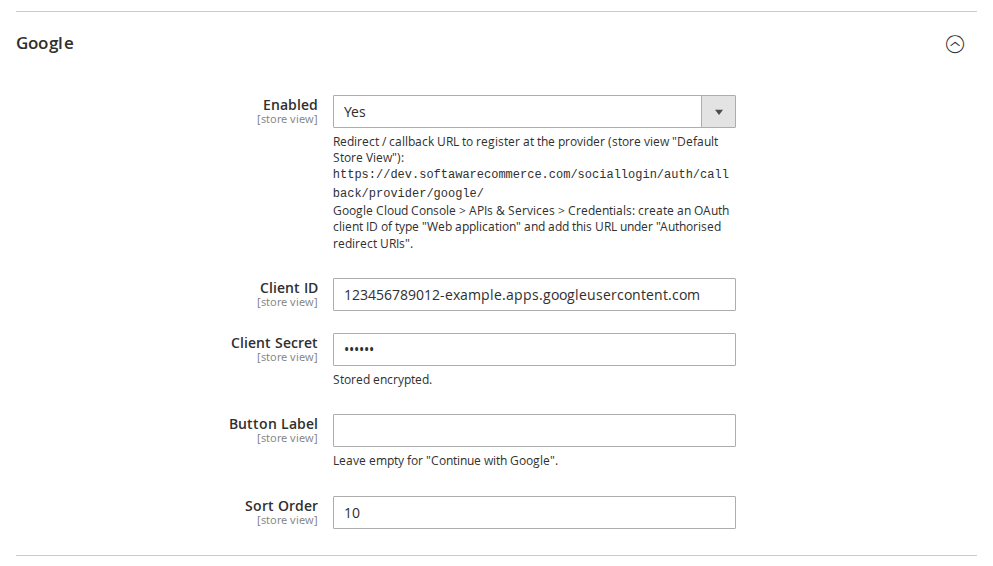
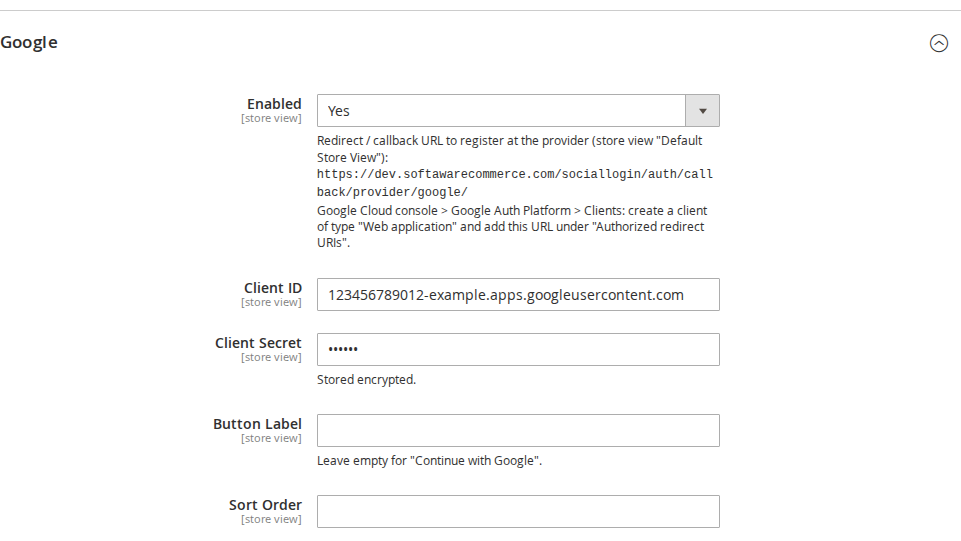
In-app browser note, Graph API v26.0, current Google console names, softawarecommerce.com links, docs screenshots (1.4.0)

diff --git a/view/frontend/web/js/social-login.js b/view/frontend/web/js/social-login.js
@@ -6,6 +6,8 @@
  * - Popup mode: opens the provider in a popup; the popup tells this window where to go next
  *   (via window.opener, or a BroadcastChannel when the provider cut the opener link).
  * - Widgets marked data-sw-social-guest-only hide themselves for signed-in customers.
+ * - In the built-in browsers of Instagram, Facebook and other apps (where Google refuses OAuth sign-in), shows the
+ *   "open this page in your browser" note rendered with the buttons, with a "Copy link" button.
  */
 (function (factory) {
     'use strict';
@@ -18,7 +20,42 @@
 }(function (customerData) {
     'use strict';
 
-    var CHANNEL = 'sw_social_login';
+    var CHANNEL = 'sw_social_login',
+        // In-app browsers (WebViews): Facebook, Messenger, Instagram, LinkedIn, Snapchat, Pinterest, TikTok,
+        // WeChat, LINE, and Android WebViews in general ("; wv)").
+        IN_APP = /FBAN|FBAV|FB_IAB|FBIOS|Instagram|LinkedInApp|Snapchat|Pinterest|TikTok|musical_ly|BytedanceWebview|MicroMessenger|\bLine\/|; wv\)/;
+
+    function isInAppBrowser() {
+        return IN_APP.test(window.navigator.userAgent || '');
+    }
+
+    function showInAppHints() {
+        // Luma: the class shows the notes through CSS (also those Knockout renders later). Hyvä: unhide them.
+        document.documentElement.classList.add('sw-social-inapp');
+        Array.prototype.forEach.call(document.querySelectorAll('[data-sw-social-inapp][hidden]'), function (node) {
+            node.hidden = false;
+        });
+    }
+
+    function copyLink(button) {
+        var url = window.location.href,
+            done = function () {
+                button.textContent = button.getAttribute('data-copied') || button.textContent;
+            },
+            fallback = function () {
+                // No clipboard access: show the address so it can be selected and copied by hand.
+                var target = button.parentNode && button.parentNode.querySelector('[data-sw-social-url]');
+                if (target) {
+                    target.textContent = url;
+                    target.hidden = false;
+                }
+            };
+        if (window.navigator.clipboard && window.navigator.clipboard.writeText) {
+            window.navigator.clipboard.writeText(url).then(done, fallback);
+        } else {
+            fallback();
+        }
+    }
 
     function withParams(href, popup) {
         var url = href + (href.indexOf('?') === -1 ? '?' : '&') + 'return=' + encodeURIComponent(window.location.href);
@@ -60,6 +97,12 @@
     }
 
     function onClick(event) {
+        var copy = event.target && event.target.closest ? event.target.closest('[data-sw-social-copy]') : null;
+        if (copy) {
+            event.preventDefault();
+            copyLink(copy);
+            return;
+        }
         var link = event.target && event.target.closest ? event.target.closest('a[data-sw-social]') : null;
         if (!link || event.defaultPrevented || event.button > 0 || event.metaKey || event.ctrlKey || event.shiftKey) {
             return;
@@ -100,6 +143,9 @@
         }
         window.swSocialLoginReady = true;
         document.addEventListener('click', onClick);
+        if (isInAppBrowser()) {
+            showInAppHints();
+        }
         watchCustomer();
     };
 }));

diff --git a/view/frontend/web/js/view/social-buttons.js b/view/frontend/web/js/view/social-buttons.js
@@ -3,8 +3,9 @@
  */
 define([
     'uiComponent',
-    'Softaware_SocialLogin/js/social-login'
-], function (Component, socialLogin) {
+    'Softaware_SocialLogin/js/social-login',
+    'mage/translate'
+], function (Component, socialLogin, $t) {
     'use strict';
 
     return Component.extend({
@@ -16,11 +17,17 @@ define([
             buttonStyle: 'icon_text',
             buttonTheme: 'light',
             popup: false,
-            showDivider: false
+            showDivider: false,
+            inAppText: '',
+            copyText: '',
+            copiedText: ''
         },
 
         initialize: function () {
             this._super();
+            this.inAppText = $t('You are using the browser built into another app. Google does not allow sign-in there, and other providers may not work either. Please open this page in your browser, for example with "Open in browser" in the app\'s menu.');
+            this.copyText = $t('Copy link');
+            this.copiedText = $t('Link copied. Paste it into your browser.');
             socialLogin();
             return this;
         },

diff --git a/view/frontend/web/css/source/_module.less b/view/frontend/web/css/source/_module.less
@@ -64,6 +64,35 @@
             }
         }
 
+        &__inapp {
+            background: #fdf6e3;
+            border: 1px solid #e8c56d;
+            border-radius: 4px;
+            display: none;
+            font-size: 1.3rem;
+            margin: 0 0 14px;
+            padding: 10px 12px;
+
+            .sw-social-inapp & {
+                display: block;
+            }
+        }
+
+        &__inapp-text {
+            margin: 0 0 8px;
+        }
+
+        &__inapp-url {
+            display: block;
+            margin-top: 8px;
+            user-select: all;
+            word-break: break-all;
+
+            &[hidden] {
+                display: none;
+            }
+        }
+
         &__divider {
             align-items: center;
             color: #666;

diff --git a/view/frontend/web/template/social-buttons.html b/view/frontend/web/template/social-buttons.html
@@ -8,6 +8,12 @@
     <!-- ko if: heading -->
     <p class="sw-social__heading" data-bind="text: heading"></p>
     <!-- /ko -->
+    <div class="sw-social__inapp" role="note">
+        <p class="sw-social__inapp-text" data-bind="text: inAppText"></p>
+        <button type="button" class="action secondary sw-social__inapp-copy" data-sw-social-copy
+                data-bind="attr: {'data-copied': copiedText}, text: copyText"></button>
+        <span class="sw-social__inapp-url" data-sw-social-url hidden></span>
+    </div>
     <div class="sw-social__buttons" data-bind="foreach: buttons">
         <a class="sw-social__btn" rel="nofollow"
            data-bind="attr: {

diff --git a/Model/Provider/Facebook.php b/Model/Provider/Facebook.php
@@ -19,7 +19,7 @@ use Softaware\SocialLogin\Model\Profile;
  */
 class Facebook extends AbstractProvider
 {
-    private const DEFAULT_VERSION = 'v23.0';
+    private const DEFAULT_VERSION = 'v26.0';
 
     public function getCode(): string
     {

diff --git a/docs/user-guide.md b/docs/user-guide.md
@@ -6,6 +6,7 @@ installation, configuration, provider setup and day-to-day use.
 - Demo (Luma): https://demo.softawarecommerce.com/customer/account/login/
 - Demo (Hyvä): https://demo.softawarecommerce.com/hyva/customer/account/login/
 - Admin demo: https://demo.softawarecommerce.com/try-admin/social-login
+- Product page (free): https://softawarecommerce.com/shop/magento-2-extensions/social-login-for-magento-2/
 - Changelog: [CHANGELOG.md](../CHANGELOG.md) · Questions: [FAQ](faq.md)
 
 ![Sign-in page with social login buttons](images/sign-in-luma.png)
@@ -24,7 +25,8 @@ client and PHP's OpenSSL extension.
 
 ## 2. Installation
 
-With Composer (recommended). Use the access keys from your account on shop.softawarecommerce.com:
+With Composer (recommended). Social Login is free; get it on the [product page](https://softawarecommerce.com/shop/magento-2-extensions/social-login-for-magento-2/) and use the Composer keys
+from your account on softawarecommerce.com (My account > Composer keys, https://softawarecommerce.com/my-modules/keys/):
 
 ```bash
 composer config repositories.softaware composer https://repo.softawarecommerce.com
@@ -102,7 +104,7 @@ register one callback URL per store view URL.
 
 | Provider | Where to create the app | What to enter in Magento |
 | --- | --- | --- |
-| Google | Google Cloud Console > APIs & Services > Credentials > Create OAuth client ID (Web application); add the callback under "Authorised redirect URIs". | Client ID, Client Secret |
+| Google | Google Cloud console > Google Auth Platform > Clients > Create client (Web application); add the callback under "Authorized redirect URIs". | Client ID, Client Secret |
 | Facebook | Meta for Developers: add the Facebook Login product, enter the callback under "Valid OAuth Redirect URIs", request the `email` permission. | App ID, App Secret, Graph API version |
 | X | X Developer Portal > User authentication settings: OAuth 2.0, type "Web App", callback URL. | Client ID, Client Secret; "Request Email Address" only if the app has the email permission |
 
@@ -123,6 +125,12 @@ another one or disconnect one. Disconnecting is refused when it would leave the 
 in (no password and no other provider).
 
 ![Connected Accounts in My Account](images/connected-accounts.png)
+
+**In-app browsers.** When the shop is opened inside Instagram, Facebook, Messenger, TikTok, LinkedIn, Snapchat,
+Pinterest, WeChat, LINE or another app's built-in browser, a note above the buttons asks the customer to open the
+page in their browser, with a **Copy link** button. Google does not allow sign-in in these built-in browsers, and
+other providers may not work there either. The buttons stay available. The note is detected in the browser, so
+cached pages work as usual; it appears on Luma (including the checkout) and Hyvä.
 
 **Hyvä and mobile.** The Hyvä templates are included and the buttons stack on small screens.
 
@@ -188,6 +196,7 @@ Installed add-ons such as Social Login Pro add their own checks. With
 | "redirect_uri_mismatch" or similar at the provider | The callback URL registered at the provider differs from the one shown in Magento (http vs https, www, store code, trailing slash). Copy it again exactly. |
 | The popup does not open | The browser blocked it; the module falls back to a full-page redirect. Choose **Full-page redirect** if you prefer. |
 | Customer is asked for the password | Expected when the provider has not verified the address or is not responsible for it (see *Accounts*). It happens once; afterwards the provider signs them in directly. |
+| Google shows "Access blocked" or `disallowed_useragent` | The customer opened the shop in an app's built-in browser (Instagram, Facebook and others). Google refuses sign-in there; the customer sees a note asking them to open the page in their browser. |
 | Sign-in fails | See `var/log/softaware_sociallogin.log` for the technical reason (no secrets or tokens are logged). |
 
 ## 12. More providers: Social Login Pro
@@ -195,7 +204,8 @@ Installed add-ons such as Social Login Pro add their own checks. With
 The add-on **Social Login Pro** (`softaware/module-social-login-pro`) adds Sign in with Apple, Microsoft (Entra
 ID), LinkedIn, Amazon and GitHub. After installing it (`composer require softaware/module-social-login-pro`, then
 the `bin/magento` commands from section 2), the new providers appear as groups in the same configuration section and
-use all the settings in this guide. Its own user guide describes the provider setup.
+use all the settings in this guide. Its own user guide describes the provider setup. Product page:
+https://softawarecommerce.com/shop/magento-2-extensions/social-login-pro-for-magento-2/
 
 ## 13. Uninstall
 

diff --git a/README.md b/README.md
@@ -13,6 +13,7 @@ Package `softaware/module-social-login`, module `Softaware_SocialLogin`.
 - Storefront demo: [Luma](https://demo.softawarecommerce.com/customer/account/login/) ·
   [Hyvä](https://demo.softawarecommerce.com/hyva/customer/account/login/)
 - Admin demo: https://demo.softawarecommerce.com/try-admin/social-login
+- Product page (free): https://softawarecommerce.com/shop/magento-2-extensions/social-login-for-magento-2/
 - [User guide](docs/user-guide.md) (installation, settings, provider setup, troubleshooting) · [FAQ](docs/faq.md) ·
   [Changelog](CHANGELOG.md)
 
@@ -25,6 +26,9 @@ Package `softaware/module-social-login`, module `Softaware_SocialLogin`.
   "Sign In" link on the checkout page, the checkout email step (optional), Hyvä authentication popup, CMS widget
   **Softaware Social Login Buttons**, and a layout block (`Softaware\SocialLogin\Block\Buttons`).
 - **Look**: icon and text, or icon only; light or dark. Sign-in in a **popup window** or a **full-page redirect**.
+- **In-app browsers**: in the built-in browsers of Instagram, Facebook and other apps (where Google blocks OAuth
+  sign-in) a note above the buttons asks the shopper to open the page in their browser, with a "Copy link" button.
+  Detected in the browser (full page cache safe); Luma, checkout and Hyvä.
 - **Security**
   - `state` (random, single use, stored server-side, bound to the browser by a cookie, 15-minute lifetime),
     `nonce` (OIDC) and PKCE S256 (Google, X).
@@ -84,7 +88,8 @@ callback URL segment): `google`, `facebook`, `twitter` (X), `test`.
 
 Register the callback URL shown in the configuration exactly as displayed (one per store view URL):
 
-- **Google**: Google Cloud Console > APIs & Services > Credentials > OAuth client ID (Web application).
+- **Google**: Google Cloud console > Google Auth Platform > Clients > Create client (Web application), "Authorized
+  redirect URIs".
 - **Facebook**: Facebook Login product, "Valid OAuth Redirect URIs", `email` permission.
 - **X**: User authentication settings, OAuth 2.0, type Web App, callback URL. Switch on "Request email" only if
   the app has the email permission.
@@ -109,7 +114,8 @@ browser, so it can be used on full-page-cached pages.
 
 The add-on **Social Login Pro** (`softaware/module-social-login-pro`) adds Sign in with Apple, Microsoft (Entra ID),
 LinkedIn, Amazon and GitHub. Its providers appear in the same configuration section, the same button rows, the
-Connected Accounts page and the admin tools, and use the same settings described here.
+Connected Accounts page and the admin tools, and use the same settings described here. Product page:
+https://softawarecommerce.com/shop/magento-2-extensions/social-login-pro-for-magento-2/
 
 ## Adding a provider (developers)
 

diff --git a/CHANGELOG.md b/CHANGELOG.md
@@ -1,5 +1,25 @@
 # Changelog
 
+## 1.4.0 (2026-10-09)
+
+### Added
+
+- In-app browsers: when the shop is opened inside Instagram, Facebook, Messenger, TikTok, LinkedIn, Snapchat,
+  Pinterest, WeChat, LINE or an Android WebView, a note above the buttons asks the shopper to open the page in their
+  browser (Google blocks OAuth sign-in in these browsers), with a "Copy link" button. Detected in the browser, so
+  it is full page cache safe. Luma (sign-in and create-account pages, widget, authentication popup, checkout) and
+  Hyvä.
+
+### Changed
+
+- Facebook: default Graph API version is now `v26.0` (was `v23.0`). Saved values are kept; the field now has
+  "Use system value", so a store that saved the old default can switch back to the module default.
+- Google setup hint in the admin and docs uses the current Google Cloud console names (Google Auth Platform >
+  Clients, "Authorized redirect URIs").
+- Docs: product and Composer key links point to softawarecommerce.com (the shop moved from
+  shop.softawarecommerce.com); the product page tagline says the extension is free and has no dashes.
+- Doc screenshots retaken without the Magento logo of the Hyvä default theme and with the new Google hint.
+
 ## 1.3.0 (2026-10-07)
 
 ### Added

diff --git a/docs/faq.md b/docs/faq.md
@@ -7,6 +7,11 @@ Google, Facebook and X (Twitter). Each one can be switched on separately, per we
 Yes, with the add-on **Social Login Pro**. It adds these five providers to the same configuration section, buttons,
 Connected Accounts page and admin tools; everything described here applies to them too.
 
+**What happens when a shopper opens the shop from Instagram or Facebook?**
+Those apps open links in their own built-in browser, where Google does not allow sign-in. Social Login recognises
+these browsers and shows a note above the buttons asking the shopper to open the page in their browser, with a
+"Copy link" button. This works on Luma, the checkout and Hyvä.
+
 **Does it work with Hyvä?**
 Yes. Hyvä templates are included (Hyvä 1.3+, tested with 1.5). On the Hyvä checkout the Luma checkout fallback is
 used, so the checkout buttons are the Luma ones.
